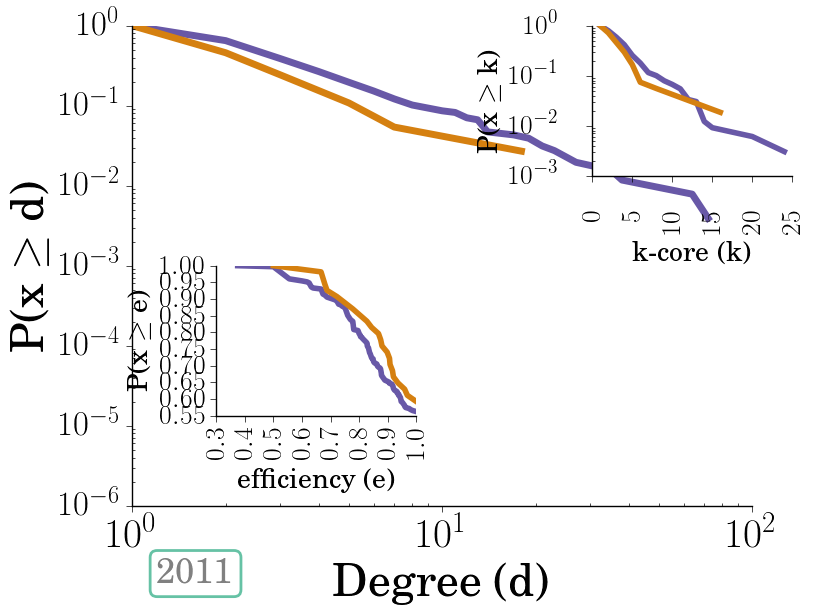
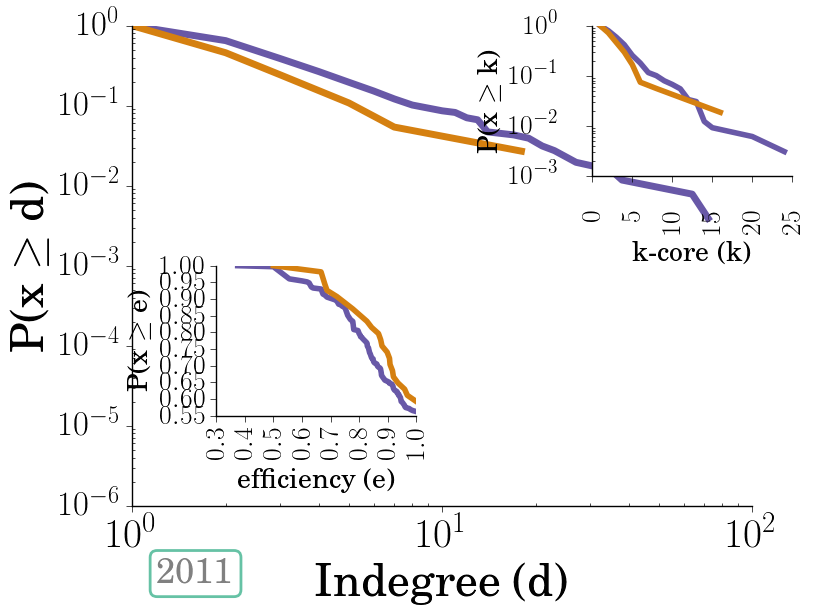
in and out degree plots

Changed region(s): [[0.3681, 0.8959, 0.7055, 0.9886]]

diff --git a/plot_hist.py b/plot_hist.py
@@ -93,7 +93,7 @@ def hist(degree,kcore,clust,fpath=None,text=None):
         # print("X: ", x)
         # print("Y: ", y)
         l = ax.plot(x,y, ls[gender],color=colors[gender],label=labels[gender],lw=5,)
-    ax.set_xlabel(r'Degree (d)',fontsize=33)
+    ax.set_xlabel(r'Outdegree (d)',fontsize=33)
     ax.set_ylabel(r'P(x $\geq$ d)',fontsize=33)
     
 
@@ -185,11 +185,11 @@ plt.close('all')
 
 c_names = {
     'all': 'global',
-    'us': "american",
+    # 'us': "american",
     "de": "german",
-    "gb": "british",
-    "fr": "french",
-    "ru": "russian"
+    # "gb": "british",
+    # "fr": "french",
+    # "ru": "russian"
 }
 
 for name in c_names.keys():
@@ -204,9 +204,15 @@ for name in c_names.keys():
                 # in_deg = nx.get_node_attributes(fg,'in_degree')
                 # tp = (('female', nx.get_node_attributes(fg,'in_degree')), ('male', nx.get_node_attributes(mg,'in_degree')))
                 # print(tuple(nx.get_node_attributes(fg,'in_degree')))
+        # deg = {}
+        # deg['female'] = nx.get_node_attributes(fg,'in_degree')
+        # deg['male'] = nx.get_node_attributes(mg,'in_degree')
+        # folder = "in"
+
         deg = {}
-        deg['female'] = nx.get_node_attributes(fg,'in_degree')
-        deg['male'] = nx.get_node_attributes(mg,'in_degree')
+        deg['female'] = nx.get_node_attributes(fg,'out_degree')
+        deg['male'] = nx.get_node_attributes(mg,'out_degree')
+        folder = "out"
 
         k_core = {}
         k_core['female'] = nx.get_node_attributes(fg,'k_core')
@@ -222,5 +228,5 @@ for name in c_names.keys():
         d_kcore =  k_core
         efficiency = eff
         year = int(file.split("_")[0])
-        save = "plots/hist_plot/"+name+"/"+file
+        save = "plots/hist_plot/"+name+"/"+folder+"/"+file
         hist(d_degree,d_kcore,efficiency,save,text=year)
